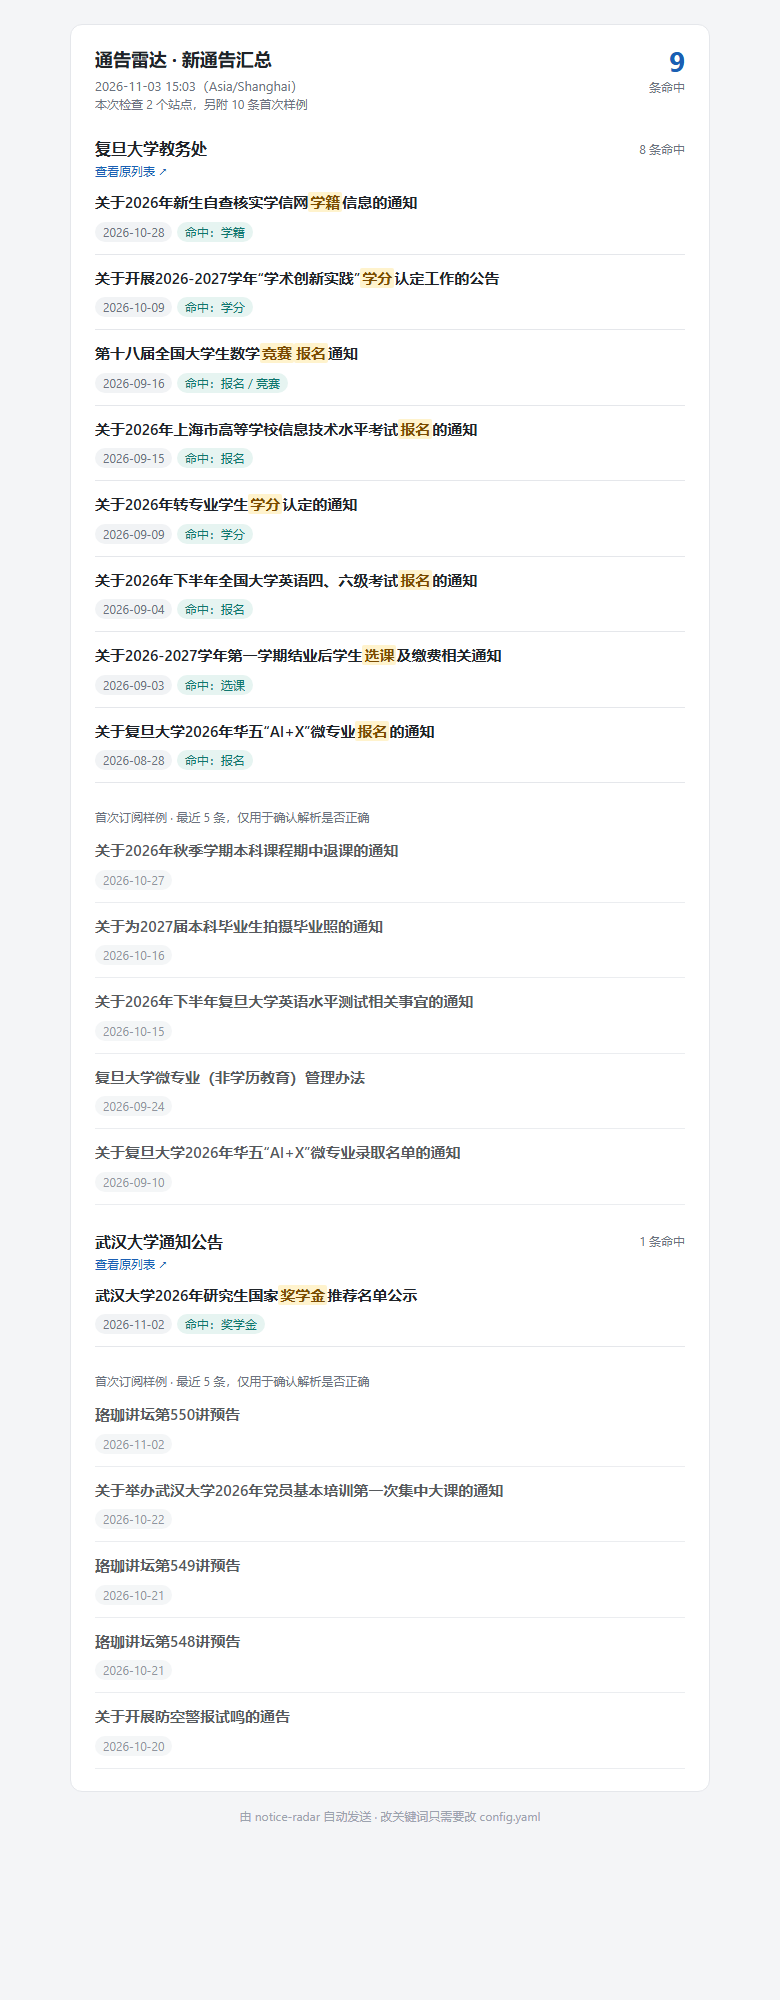
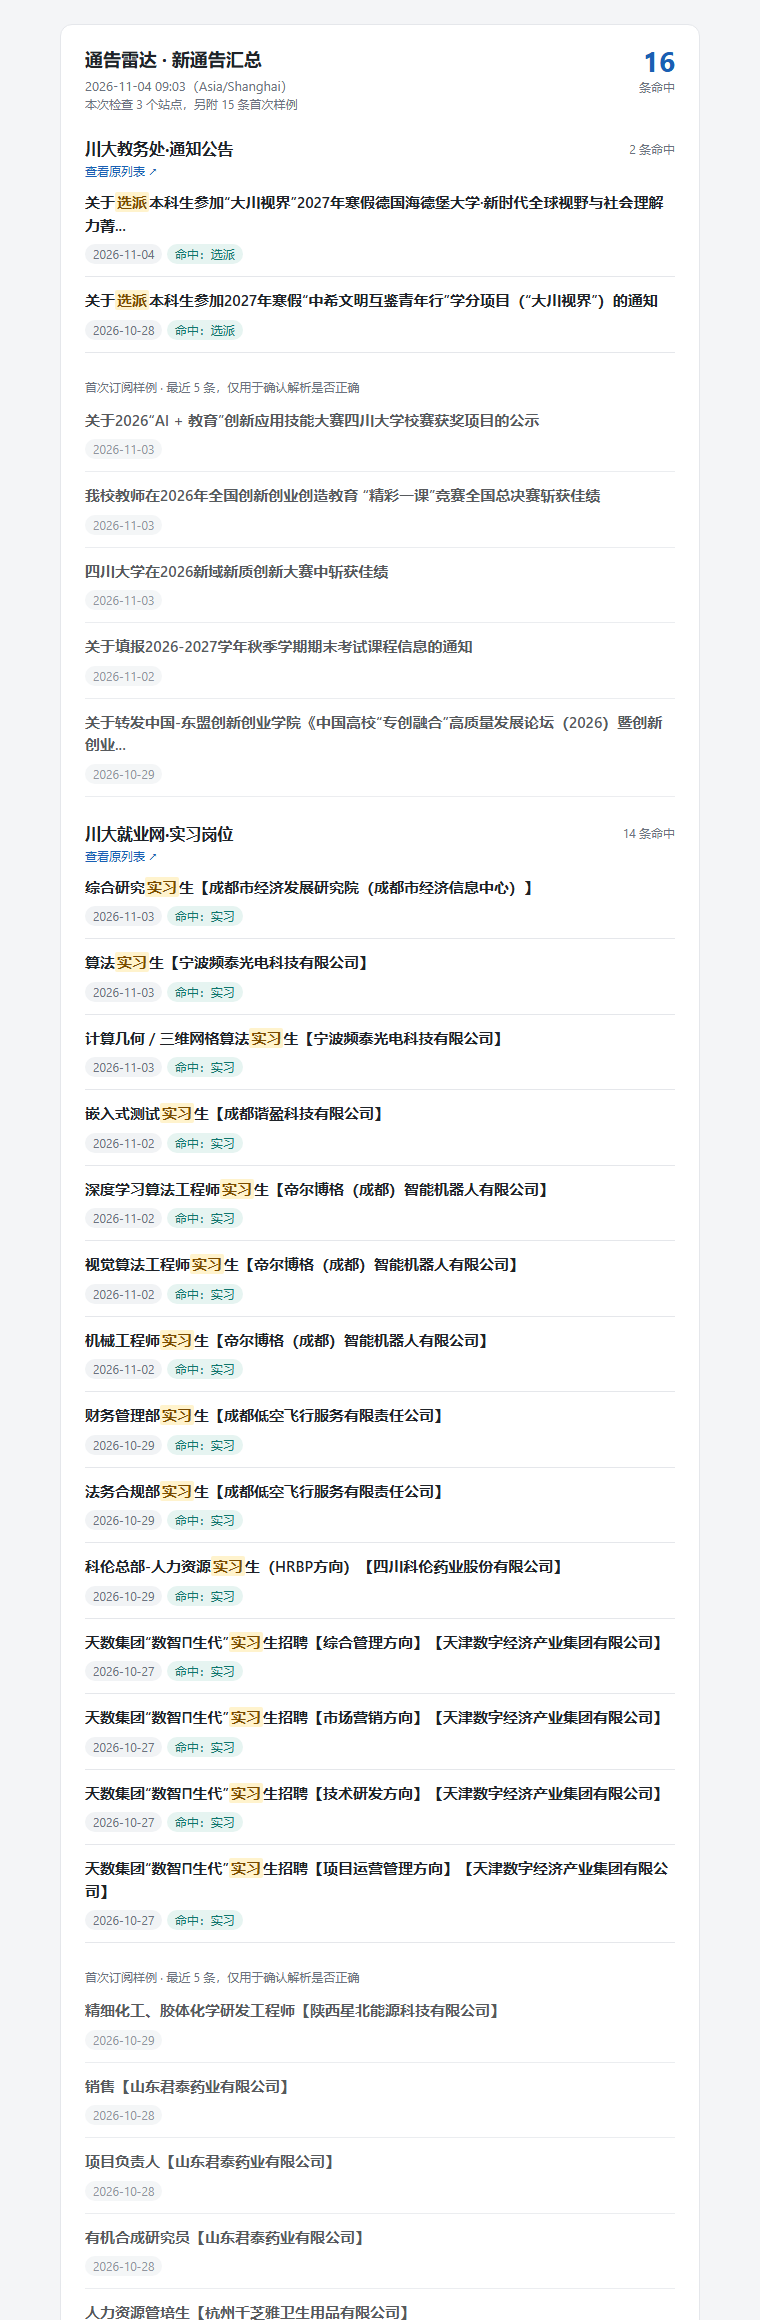
feat: 换成四川大学三个栏目（教务处通知、就业网实习、就业网通知）
- 关键词：交换 / 实习，另补「选派」以覆盖教务处交换项目写法
- 页面内按标题二次去重，避免同一条通告发在多个栏目导致重复推送
- 标题去掉源数据里的 markdown 前缀噪音

diff --git a/src/parse.js b/src/parse.js
@@ -30,6 +30,7 @@ export function parseList(html, site, pageUrl) {
 
   const items = [];
   const seen = new Set();
+  const seenTitles = new Set();
 
   nodes.each((_, el) => {
     const $item = $(el);
@@ -37,7 +38,7 @@ export function parseList(html, site, pageUrl) {
     const $title = pickNode($, $item, cfg.title) || ($item.is('a') ? $item : $item.find('a').first());
     const $link = pickNode($, $item, cfg.link) || ($item.is('a') ? $item : $item.find('a').first());
 
-    const rawTitle = normalizeText($title?.attr('title') || $title?.text() || '');
+    const rawTitle = normalizeText($title?.attr('title') || $title?.text() || '').replace(/^[#*·\s]+/, '');
     const href = $link?.attr('href') || '';
     const url = canonicalUrl(href, pageUrl);
 
@@ -50,7 +51,11 @@ export function parseList(html, site, pageUrl) {
 
     const key = url;
     if (seen.has(key)) return;
+    // 同一条通告常被同时发到多个栏目（链接不同、标题相同），在页面内先去一次重
+    const titleKey = rawTitle.replace(/[\s\p{P}\p{S}]/gu, '').toLowerCase();
+    if (titleKey && seenTitles.has(titleKey)) return;
     seen.add(key);
+    if (titleKey) seenTitles.add(titleKey);
 
     items.push({
       title: rawTitle,
